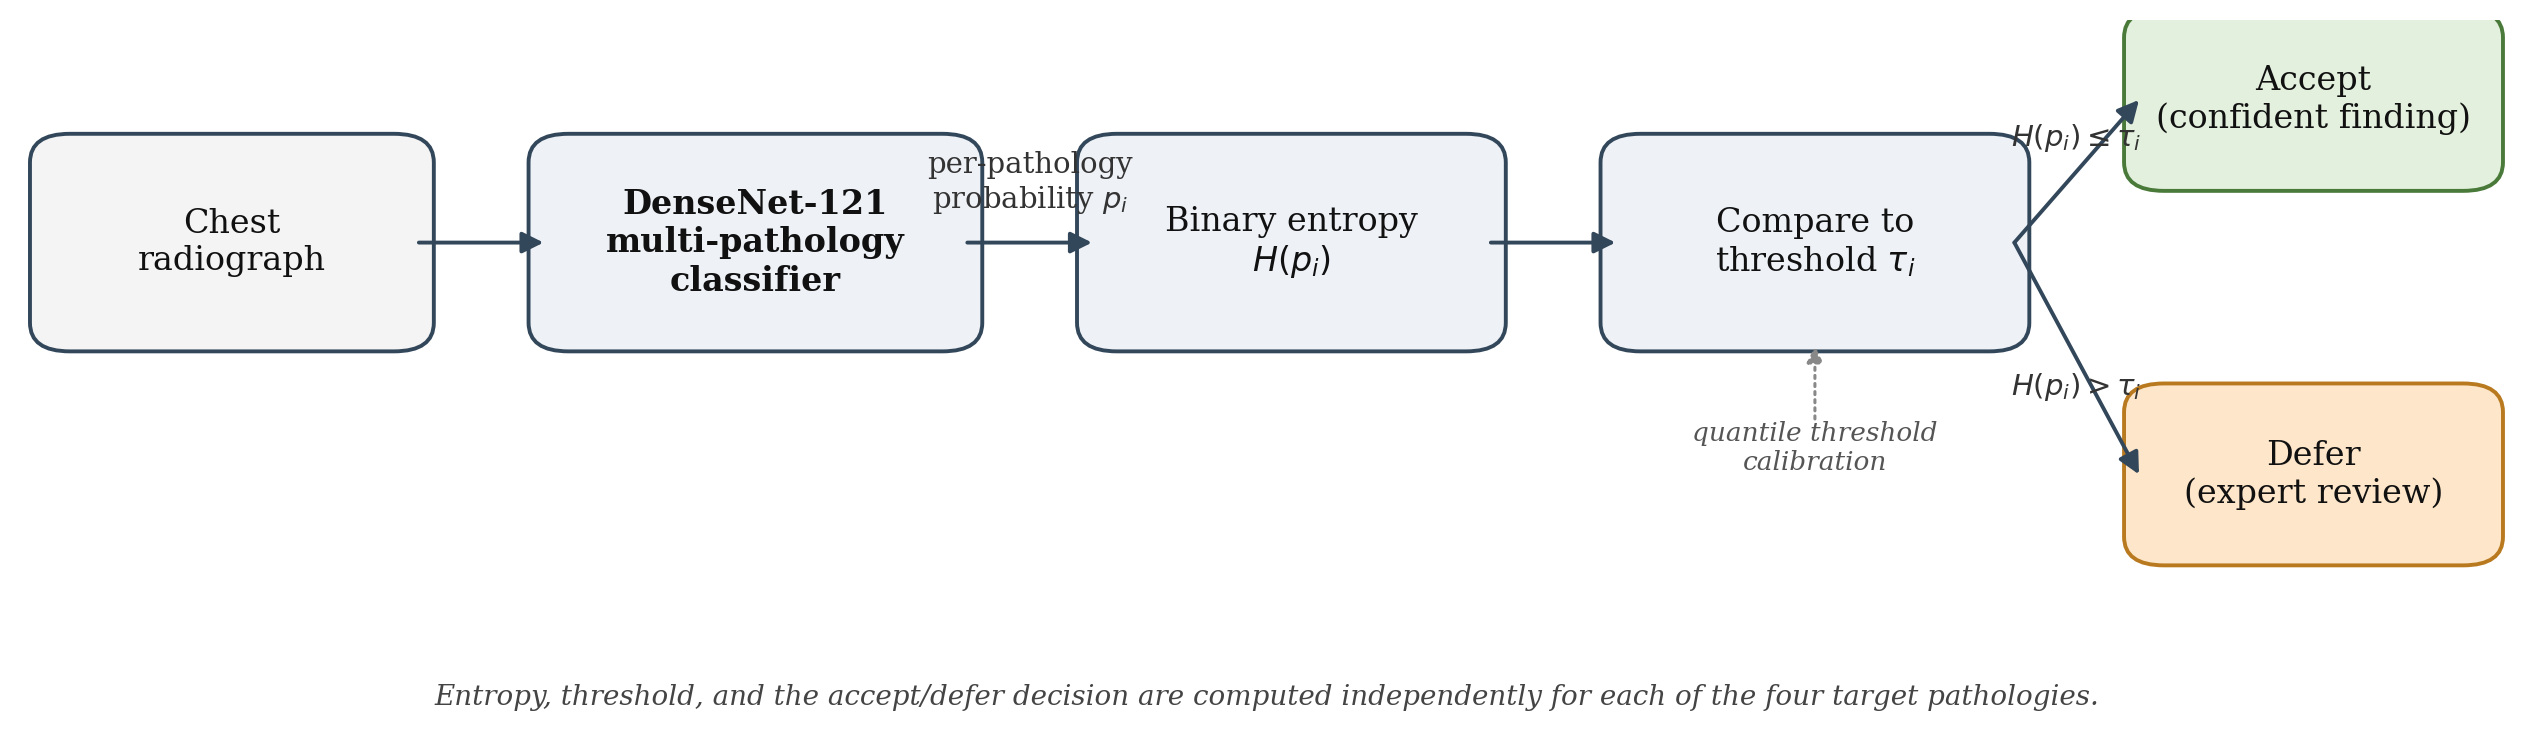
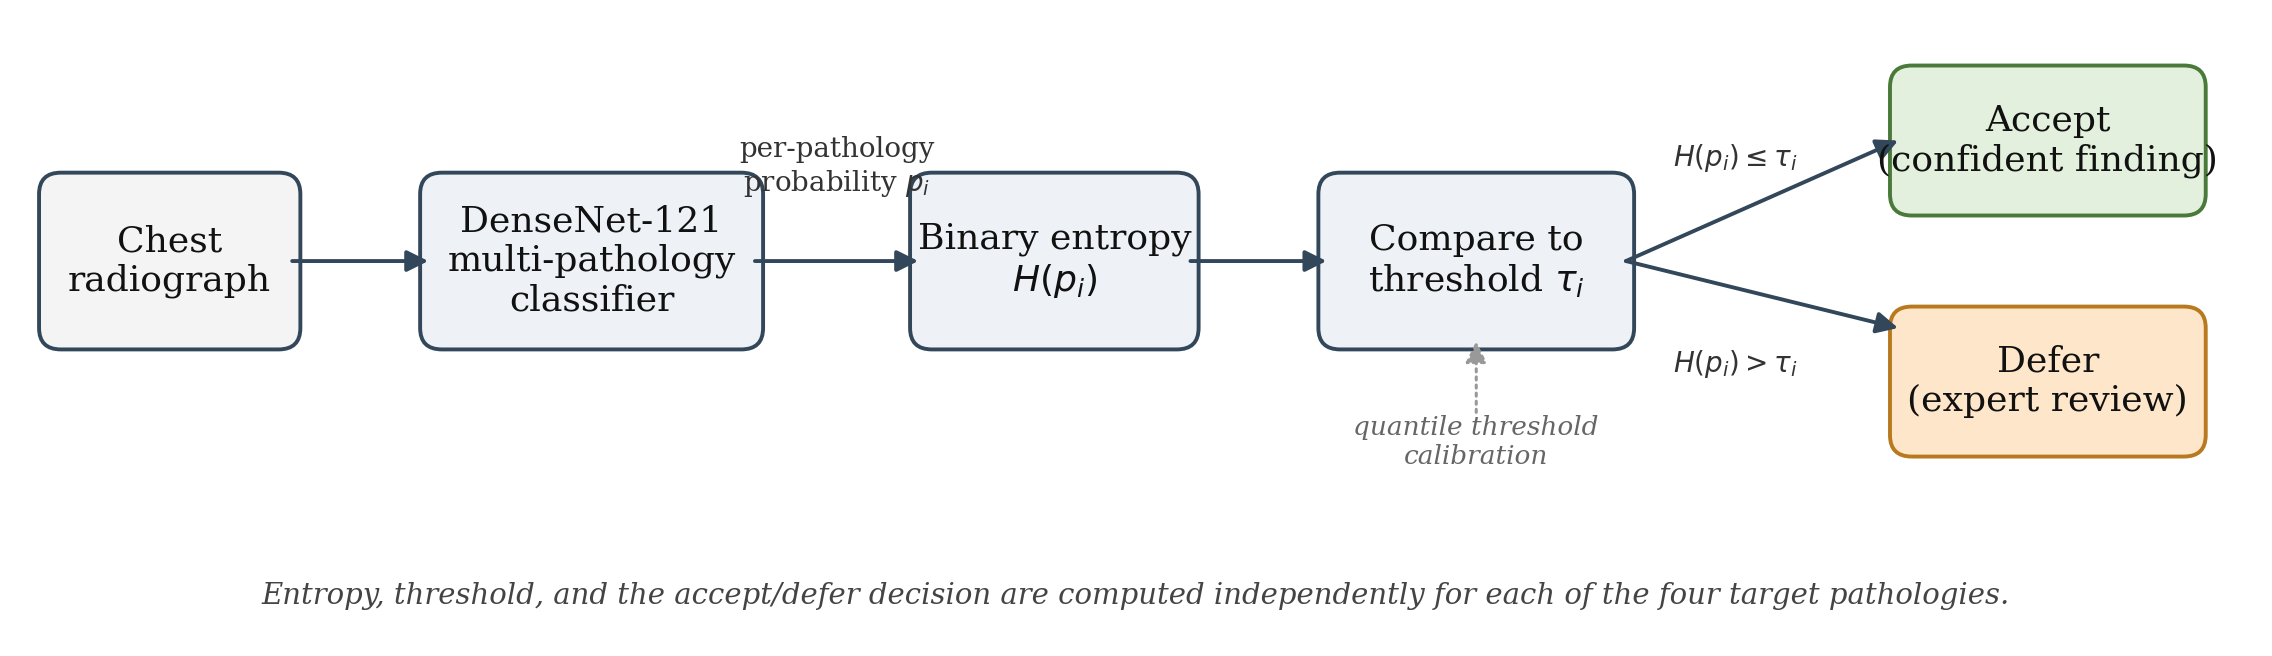
paperv4: explicit cheap-and-at-par-or-better statement; abstract fix in red; Fig 1 v2
- 4.1: add explicit sentence (red) that single forward-pass entropy is the least
  expensive estimator yet matches or exceeds all alternatives tested.
- Abstract: highlight the reworded "excluded from its training" phrase in red.
- Figure 1 regenerated: uniform box typography, branch labels no longer overlap
  the Accept/Defer boxes.

diff --git a/paperv4.html b/paperv4.html
@@ -44,7 +44,7 @@
 * Corresponding Author: [email redacted]</p>
 
 <h2>Abstract</h2>
-<p class="abstract">Overconfidence in deep learning models poses a significant risk in high-stakes medical imaging tasks, particularly in multi-label classification of chest X-rays, where multiple co-occurring pathologies must be detected simultaneously. This study introduces an uncertainty-aware framework for chest X-ray diagnosis based on a DenseNet-121 backbone, enhanced with <mark class="edit">an entropy-based selective prediction mechanism that abstains, on a per-pathology basis, from predictions whose binary entropy exceeds a calibrated threshold, deferring those findings to clinical experts.</mark> A quantile-based calibration procedure tunes rejection thresholds using either global or class-specific strategies. <mark class="edit">On NIH ChestX-ray14, MIMIC-CXR, and PadChest, selective prediction is evaluated with risk-coverage analysis and balanced accuracy under non-parametric bootstrap confidence intervals. At a calibrated operating point, abstention improves balanced accuracy for all four target pathologies on NIH ChestX-ray14, with gains of 0.07 to 0.09 at a coverage of 0.70, a relative reduction in balanced error of 25 to 36% (95% confidence intervals excluding zero). Every target pathology is also supported on MIMIC-CXR and PadChest, on an independently trained model evaluated cross-dataset on a source excluded from its training, and under leave-one-dataset-out domain shift in both transfer directions.</mark> These results support the integration of selective prediction into AI-assisted diagnostic workflows, providing a practical step toward safer, uncertainty-aware deployment of deep learning in clinical settings.</p>
+<p class="abstract">Overconfidence in deep learning models poses a significant risk in high-stakes medical imaging tasks, particularly in multi-label classification of chest X-rays, where multiple co-occurring pathologies must be detected simultaneously. This study introduces an uncertainty-aware framework for chest X-ray diagnosis based on a DenseNet-121 backbone, enhanced with <mark class="edit">an entropy-based selective prediction mechanism that abstains, on a per-pathology basis, from predictions whose binary entropy exceeds a calibrated threshold, deferring those findings to clinical experts.</mark> A quantile-based calibration procedure tunes rejection thresholds using either global or class-specific strategies. <mark class="edit">On NIH ChestX-ray14, MIMIC-CXR, and PadChest, selective prediction is evaluated with risk-coverage analysis and balanced accuracy under non-parametric bootstrap confidence intervals. At a calibrated operating point, abstention improves balanced accuracy for all four target pathologies on NIH ChestX-ray14, with gains of 0.07 to 0.09 at a coverage of 0.70, a relative reduction in balanced error of 25 to 36% (95% confidence intervals excluding zero). Every target pathology is also supported on MIMIC-CXR and PadChest, on an independently trained model evaluated cross-dataset on a source </mark><mark class="v4">excluded from its training</mark><mark class="edit">, and under leave-one-dataset-out domain shift in both transfer directions.</mark> These results support the integration of selective prediction into AI-assisted diagnostic workflows, providing a practical step toward safer, uncertainty-aware deployment of deep learning in clinical settings.</p>
 <p class="kw"><strong>Keywords:</strong> Chest X-ray classification; Rejection mechanism; Multi-label diagnosis; Selective prediction; Uncertainty estimation; <mark class="add">Risk-coverage analysis; Balanced accuracy; Domain shift</mark></p>
 
 <h2>1. Introduction</h2>
@@ -141,7 +141,7 @@
 <p><mark class="add">A non-parametric bootstrap confirms these gains are not resampling artefacts: across 1,000 resamples the balanced accuracy with rejection exceeds the baseline for every pathology on all three evaluation sets (Figure 5).</mark></p>
 <figure><img src="assets/bootstrap_bacc.png" alt="bootstrap balanced-accuracy boxplots">
 <figcaption><mark class="add">Figure 5: Bootstrap validation of the balanced-accuracy change before and after rejection. Boxplots show the distribution of balanced accuracy over 1,000 bootstrap resamples at full coverage (baseline, blue) and at a coverage of 0.70 (with rejection, orange), per pathology, on the NIH ChestX-ray14, MIMIC-CXR, and PadChest evaluation sets. The with-rejection distribution exceeds the baseline for every pathology on all three datasets.</mark></figcaption></figure>
-<p><mark class="add">To confirm that these gains come from the uncertainty signal rather than from evaluating on a smaller retained set, entropy-based deferral is compared against a random-rejection control and against alternative confidence scores on the same NIH evaluation split. At a coverage of 0.70, random rejection leaves balanced accuracy essentially unchanged (within 0.001 of zero for all four pathologies), whereas entropy-based deferral recovers the gains of Table 2. Margin and maximum-probability rejection are rank-identical to entropy on a deterministic backbone and induce the same selective ordering, so entropy is reported as their representative. A deep-ensemble disagreement signal computed across the five public TorchXRayVision checkpoints does not exceed single-pass entropy at this operating point, so the single forward-pass rule is retained.</mark> <mark class="v4">This comparison directly addresses why entropy was chosen over the broader family of uncertainty-estimation methods discussed in Section 2.2: on this evaluation, the simplest single-pass signal already matches the ensemble-disagreement alternative, so the added cost of ensembling, stochastic multi-pass inference, or a trained selection head is not recovered by an accuracy gain here. A paired bootstrap confirms that the advantage over the random control is statistically supported: the per-resample difference between entropy-based and random deferral at a coverage of 0.70 has a 95% confidence interval excluding zero for all four pathologies on NIH ChestX-ray14. Post-hoc temperature scaling of the probabilities improves calibration (the expected calibration error falls, for example from 0.15 to 0.09 for Cardiomegaly) but is a monotone rescaling of the logits, so it leaves the entropy ordering, and therefore the selective gain at every coverage, unchanged; temperature-scaled confidence produces the same deferral behaviour as raw entropy rather than a stronger one.</mark></p>
+<p><mark class="add">To confirm that these gains come from the uncertainty signal rather than from evaluating on a smaller retained set, entropy-based deferral is compared against a random-rejection control and against alternative confidence scores on the same NIH evaluation split. At a coverage of 0.70, random rejection leaves balanced accuracy essentially unchanged (within 0.001 of zero for all four pathologies), whereas entropy-based deferral recovers the gains of Table 2. Margin and maximum-probability rejection are rank-identical to entropy on a deterministic backbone and induce the same selective ordering, so entropy is reported as their representative. A deep-ensemble disagreement signal computed across the five public TorchXRayVision checkpoints does not exceed single-pass entropy at this operating point, so the single forward-pass rule is retained.</mark> <mark class="v4">This comparison directly addresses why entropy was chosen over the broader family of uncertainty-estimation methods discussed in Section 2.2: on this evaluation, the simplest single-pass signal already matches the ensemble-disagreement alternative, so the added cost of ensembling, stochastic multi-pass inference, or a trained selection head is not recovered by an accuracy gain here. A paired bootstrap confirms that the advantage over the random control is statistically supported: the per-resample difference between entropy-based and random deferral at a coverage of 0.70 has a 95% confidence interval excluding zero for all four pathologies on NIH ChestX-ray14. Post-hoc temperature scaling of the probabilities improves calibration (the expected calibration error falls, for example from 0.15 to 0.09 for Cardiomegaly) but is a monotone rescaling of the logits, so it leaves the entropy ordering, and therefore the selective gain at every coverage, unchanged; temperature-scaled confidence produces the same deferral behaviour as raw entropy rather than a stronger one. Taken together, the proposed single forward-pass entropy rule is the least expensive of the estimators considered, requiring no retraining, no repeated stochastic passes, and no model ensemble, yet it matches or exceeds every one of them for selective deferral at this operating point; the cheapest uncertainty signal is therefore also the most practical to deploy.</mark></p>
 
 <h3>4.2 Risk-coverage analysis</h3>
 <p><mark class="add">Figure 6 presents the risk-coverage curve for each pathology, summarized by the area under the curve. As coverage decreases, the model retains its more confident predictions, and the curves quantify the accuracy-coverage trade-off that a deployment can select according to a target risk tolerance.</mark></p>